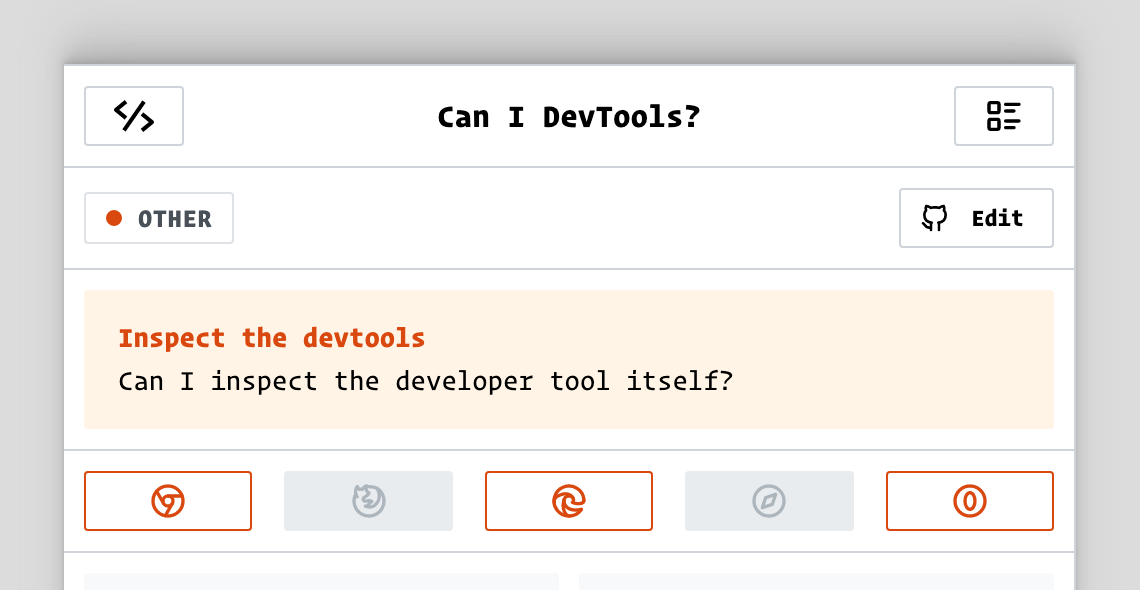
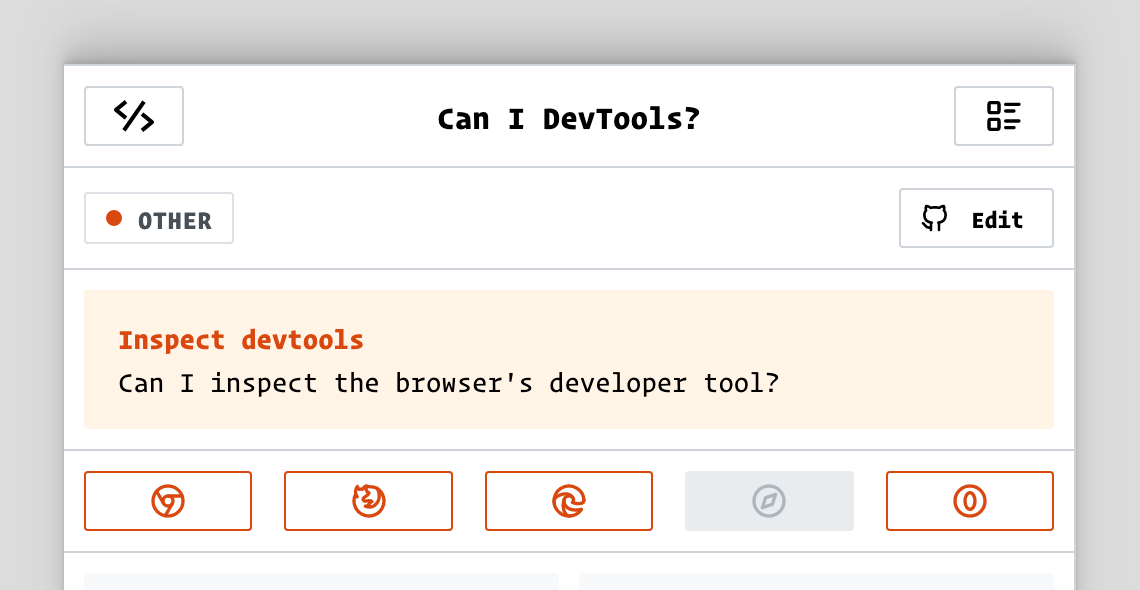
added inspect devtools

diff --git a/README.md b/README.md
@@ -136,19 +136,19 @@
 ## 11. Capture full page screenshot 
  Can I take full page screenshot of a website? 
 - [Chrome](https://canidev.tools/capture-full-page-screenshot/chrome) 
- 1. Open **Command Menu** (`Cmd+Shift+P` or `Ctrl+Shit+P`) & Run > "Capture full size screenshot" and press `Enter`.
+ 1. Open **Command Menu** (`Cmd+Shift+P` or `Ctrl+Shift+P`) & Run > "Capture full size screenshot" and press `Enter`.
 2. This will save a PNG image with url as the filename in the **Downloads** directory.
 - [Firefox](https://canidev.tools/capture-full-page-screenshot/firefox) 
  1. In the **Inspector** panel, right click on the `html` node > select "Screenshot Node".
 2. This will save a PNG image with current date time as the filename in the **Downloads** directory.
 - [Edge](https://canidev.tools/capture-full-page-screenshot/edge) 
- 1. Open **Command** **Menu** (`Cmd+Shift+P` or `Ctrl+Shit+P`) & Run > "Capture full size screenshot" and press `Enter`.
+ 1. Open **Command** **Menu** (`Cmd+Shift+P` or `Ctrl+Shift+P`) & Run > "Capture full size screenshot" and press `Enter`.
 2. This will save a PNG image with url as the filename in the **Downloads** directory.
 - [Safari](https://canidev.tools/capture-full-page-screenshot/safari) 
  1. In the **Elements** panel, right click on the `html` node and select "Capture Screenshot".
 2. This will save a PNG image with current date time as the filename in the **Downloads** directory.
 - [Opera](https://canidev.tools/capture-full-page-screenshot/opera) 
- 1. Open **Command** **Menu** (`Cmd+Shift+P` or `Ctrl+Shit+P`) & Run > "Capture full size screenshot" and press `Enter`.
+ 1. Open **Command** **Menu** (`Cmd+Shift+P` or `Ctrl+Shift+P`) & Run > "Capture full size screenshot" and press `Enter`.
 2. This will save a PNG image with url as the filename in the **Downloads** directory.
 ## 12. Capture node screenshot 
  Can I take a screenshot of a DOM node? 
@@ -930,16 +930,19 @@
  Can I inspect CSS specificity of a selector? 
 - [Safari](https://canidev.tools/inspect-css-specificity/safari) 
  1. Inspect element > In the **Styles** pane, hover over the selector to reveal a tooltip displaying the specificity of that selector.
-## 65. Inspect the devtools 
- Can I inspect the developer tool itself? 
+## 65. Inspect devtools 
+ Can I inspect the browser's developer tool? 
 - [Chrome](https://canidev.tools/inspect-devtools/chrome) 
- 1. With the devtools already open, press `Cmd+Shift+I `or `Ctrl+Shift+I` to  inspect the devtools panel itself using new instance of devtools.
+ 1. Inside devtools, press `Cmd+Shift+I `or `Ctrl+Shift+I` to  inspect the devtools panel itself using new instance of devtools.
 2. Important to note, you can keep using this shortcut to inspecting new instance of devtools recursively.
+- [Firefox](https://canidev.tools/inspect-devtools/firefox) 
+ 1. Open Devtools **Settings** (`F1`) > Under **Advanced Settings**, enable "Enable browser ... toolboxes" and "Enable remote debugging".
+2. Open Firefox Menu (via hamburger icon) > More tools > Browser Toolbox. You’ll be able to inspect the browser’s chrome windows and see, and be able to debug, all the JavaScript files loaded by the browser itself and by any add-ons that are running.
 - [Edge](https://canidev.tools/inspect-devtools/edge) 
- 1. With the devtools already open, press `Cmd+Shift+I `or `Ctrl+Shift+I` to  inspect the devtools panel itself using new instance of devtools.
+ 1. Inside devtools, press `Cmd+Shift+I `or `Ctrl+Shift+I` to  inspect the devtools panel itself using new instance of devtools.
 2. Important to note, you can keep using this shortcut to inspecting new instance of devtools recursively.
 - [Opera](https://canidev.tools/inspect-devtools/opera) 
- 1. With the devtools already open, press `Cmd+Shift+I `or `Ctrl+Shift+I` to  inspect the devtools panel itself using new instance of devtools.
+ 1. Inside devtools, press `Cmd+Shift+I `or `Ctrl+Shift+I` to  inspect the devtools panel itself using new instance of devtools.
 2. Important to note, you can keep using this shortcut to inspecting new instance of devtools recursively.
 ## 66. Inspect dialog element 
  Can I inspect the dialog element? 
